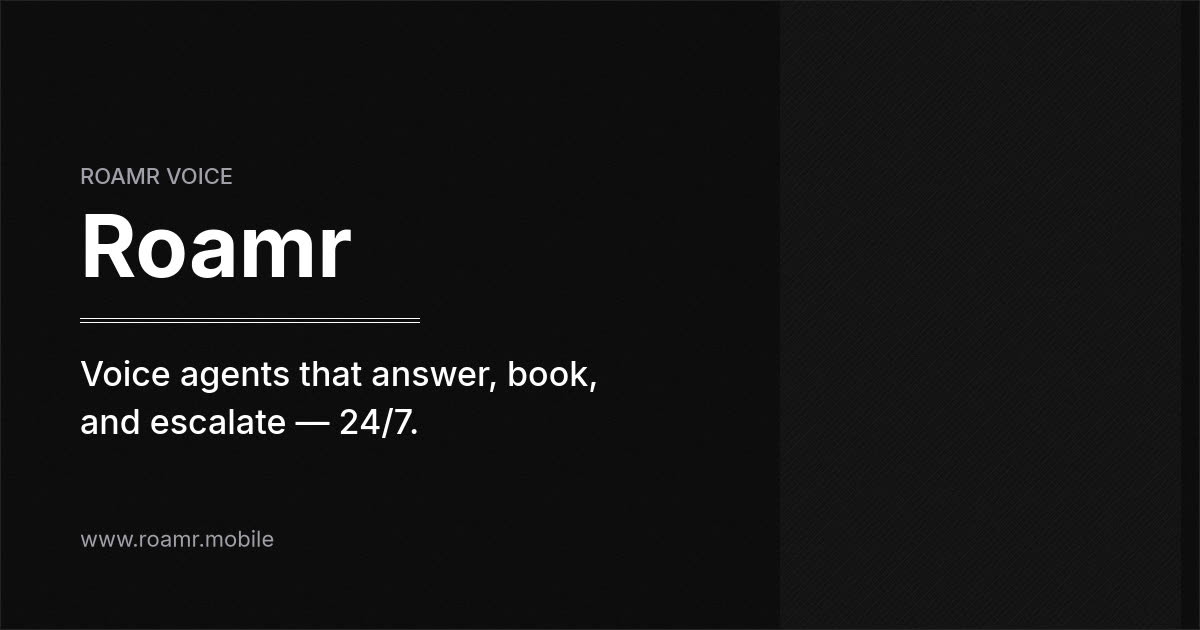
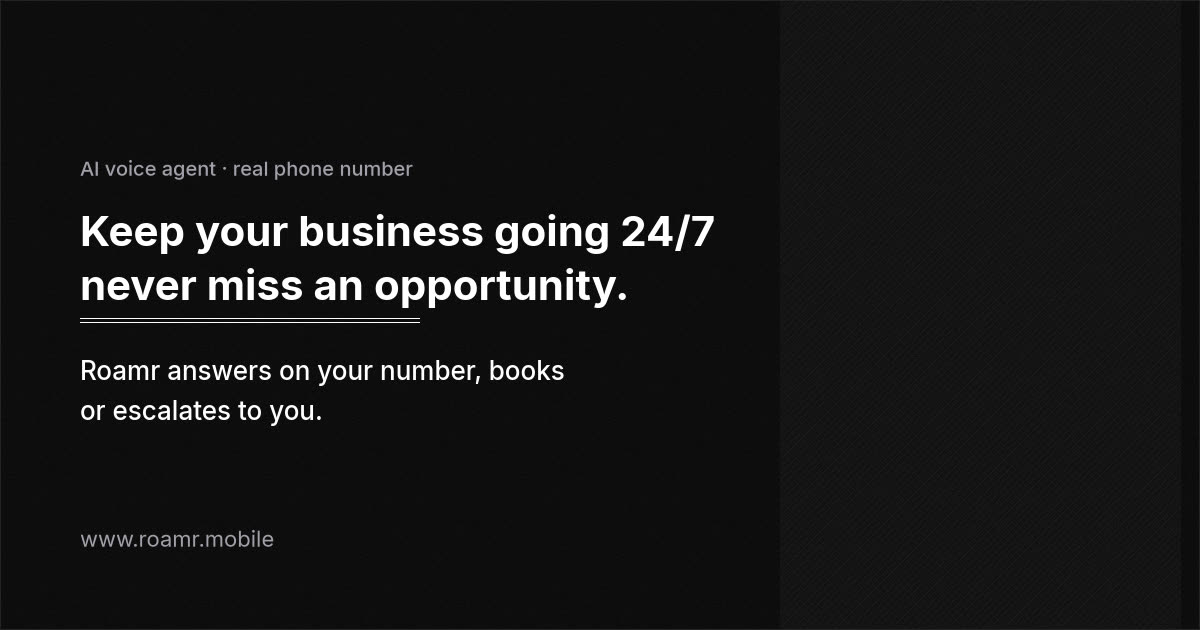
Add Quinn Soft Launch Soft CTA hero copy.
Eyebrow, H1, sub, Start free / Hear an agent, and proof strip are now the go-live marketing lines on the Preview branch.

Changed region(s): [[0.0617, 0.3317, 0.6167, 0.4825], [0.0617, 0.573, 0.4933, 0.6937], [0.0617, 0.2413, 0.3392, 0.3016]]

diff --git a/src/lib/i18n.ts b/src/lib/i18n.ts
@@ -15,10 +15,10 @@ export const EN = {
   start: "Start free",
   demo: "Hear an agent",
   console: "Open console",
-  kicker: "Always on",
-  heroTitle: "Voice agents that answer, book, and escalate — 24/7.",
+  kicker: "AI voice agent · real phone number",
+  heroTitle: "Keep your business going 24/7 — never miss an opportunity.",
   heroLead:
-    "Self-serve voice agents for personal assistants, sales and support. Twenty-five languages, your number, your knowledge — on, 24/7.",
+    "Roamr answers on your number, books or escalates to you, in the languages your customers speak.",
   pricingLead: "Monthly figures on this page. Annual is available at checkout — same plans, billed yearly.",
   listen: "Play sample",
   talk: "Talk to it",
@@ -77,10 +77,6 @@ const EXTRA: Partial<Record<LocaleCode, Partial<Record<MsgKey, string>>>> = {
     start: "Empezar gratis",
     demo: "Escuchar un agente",
     console: "Abrir consola",
-    kicker: "Siempre activo",
-    heroTitle: "Agentes de voz que contestan, reservan y escalan — 24/7.",
-    heroLead:
-      "Agentes de voz de autoservicio para asistente personal, ventas y soporte. Veinticinco idiomas, tu número, tu conocimiento — en marcha, 24/7.",
     listen: "Reproducir muestra",
     talk: "Hablarle",
     talking: "Escuchando…",
@@ -128,10 +124,6 @@ const EXTRA: Partial<Record<LocaleCode, Partial<Record<MsgKey, string>>>> = {
     start: "Essai gratuit",
     demo: "Écouter un agent",
     console: "Ouvrir la console",
-    kicker: "Toujours en ligne",
-    heroTitle: "Des agents vocaux qui répondent, réservent et escaladent — 24/7.",
-    heroLead:
-      "Agents vocaux en libre-service pour assistant, ventes et support. Vingt-cinq langues, votre numéro, votre base — actifs 24/7.",
     listen: "Écouter l’exemple",
     talk: "Lui parler",
     talking: "Écoute…",
@@ -171,10 +163,6 @@ const EXTRA: Partial<Record<LocaleCode, Partial<Record<MsgKey, string>>>> = {
     start: "Kostenlos starten",
     demo: "Agent hören",
     console: "Konsole öffnen",
-    kicker: "Immer erreichbar",
-    heroTitle: "Sprachagenten, die annehmen, buchen und eskalieren — 24/7.",
-    heroLead:
-      "Self-Service-Sprachagenten für Assistenz, Vertrieb und Support. 25 Sprachen, Ihre Nummer, Ihr Wissen — rund um die Uhr.",
     listen: "Beispiel abspielen",
     talk: "Sprechen",
     talking: "Hört zu…",
@@ -211,8 +199,6 @@ const EXTRA: Partial<Record<LocaleCode, Partial<Record<MsgKey, string>>>> = {
     start: "Começar grátis",
     demo: "Ouvir um agente",
     console: "Abrir consola",
-    kicker: "24/7",
-    heroTitle: "Agentes de voz que atendem o mundo.",
     listen: "Ouvir amostra",
     talk: "Falar",
     assistant: "Assistente pessoal",
@@ -243,8 +229,6 @@ const EXTRA: Partial<Record<LocaleCode, Partial<Record<MsgKey, string>>>> = {
     start: "Inizia gratis",
     demo: "Ascolta un agente",
     console: "Apri console",
-    kicker: "24/7",
-    heroTitle: "Agenti vocali che rispondono al mondo.",
     listen: "Ascolta esempio",
     talk: "Parla",
     assistant: "Assistente personale",
@@ -274,8 +258,6 @@ const EXTRA: Partial<Record<LocaleCode, Partial<Record<MsgKey, string>>>> = {
     signIn: "Inloggen",
     start: "Gratis starten",
     demo: "Beluister een agent",
-    kicker: "24/7",
-    heroTitle: "Voice-agents die de wereld beantwoorden.",
     listen: "Voorbeeld afspelen",
     talk: "Praten",
     assistant: "Persoonlijk assistent",
@@ -298,8 +280,6 @@ const EXTRA: Partial<Record<LocaleCode, Partial<Record<MsgKey, string>>>> = {
     signIn: "Zaloguj się",
     start: "Zacznij za darmo",
     demo: "Posłuchaj agenta",
-    kicker: "24/7",
-    heroTitle: "Agenci głosowi, którzy odbierają świat.",
     listen: "Odtwórz próbkę",
     talk: "Rozmawiaj",
     assistant: "Asystent osobisty",
@@ -321,8 +301,6 @@ const EXTRA: Partial<Record<LocaleCode, Partial<Record<MsgKey, string>>>> = {
     signIn: "Giriş",
     start: "Ücretsiz başla",
     demo: "Bir asistan dinle",
-    kicker: "24/7",
-    heroTitle: "Dünyayı karşılayan sesli asistanlar.",
     listen: "Örneği çal",
     talk: "Konuş",
     assistant: "Kişisel asistan",
@@ -344,8 +322,6 @@ const EXTRA: Partial<Record<LocaleCode, Partial<Record<MsgKey, string>>>> = {
     signIn: "تسجيل الدخول",
     start: "ابدأ مجاناً",
     demo: "استمع إلى وكيل",
-    kicker: "24/7",
-    heroTitle: "وكلاء صوتيون يجيبون العالم.",
     listen: "تشغيل العينة",
     talk: "تحدث إليه",
     assistant: "مساعد شخصي",
@@ -367,8 +343,6 @@ const EXTRA: Partial<Record<LocaleCode, Partial<Record<MsgKey, string>>>> = {
     signIn: "साइन इन",
     start: "मुफ़्त शुरू करें",
     demo: "एजेंट सुनें",
-    kicker: "24/7",
-    heroTitle: "वॉइस एजेंट जो दुनिया का जवाब देते हैं.",
     listen: "नमूना चलाएँ",
     talk: "बात करें",
     assistant: "व्यक्तिगत सहायक",
@@ -390,8 +364,6 @@ const EXTRA: Partial<Record<LocaleCode, Partial<Record<MsgKey, string>>>> = {
     signIn: "ログイン",
     start: "無料で始める",
     demo: "エージェントを聴く",
-    kicker: "24/7",
-    heroTitle: "世界に応えるボイスエージェント.",
     listen: "サンプル再生",
     talk: "話しかける",
     assistant: "パーソナルアシスタント",
@@ -413,8 +385,6 @@ const EXTRA: Partial<Record<LocaleCode, Partial<Record<MsgKey, string>>>> = {
     signIn: "로그인",
     start: "무료로 시작",
     demo: "에이전트 들어보기",
-    kicker: "24/7",
-    heroTitle: "세상에 응답하는 보이스 에이전트.",
     listen: "샘플 재생",
     talk: "대화하기",
     assistant: "개인 비서",
@@ -436,8 +406,6 @@ const EXTRA: Partial<Record<LocaleCode, Partial<Record<MsgKey, string>>>> = {
     signIn: "登录",
     start: "免费开始",
     demo: "试听座席",
-    kicker: "24/7",
-    heroTitle: "接得住全世界的语音座席.",
     listen: "播放示例",
     talk: "对话",
     assistant: "私人助理",
@@ -459,8 +427,6 @@ const EXTRA: Partial<Record<LocaleCode, Partial<Record<MsgKey, string>>>> = {
     signIn: "Войти",
     start: "Начать бесплатно",
     demo: "Послушать агента",
-    kicker: "24/7",
-    heroTitle: "Голосовые агенты, которые отвечают миру.",
     listen: "Пример",
     talk: "Говорить",
     assistant: "Личный ассистент",
@@ -482,8 +448,6 @@ const EXTRA: Partial<Record<LocaleCode, Partial<Record<MsgKey, string>>>> = {
     signIn: "Logga in",
     start: "Börja gratis",
     demo: "Lyssna på en agent",
-    kicker: "24/7",
-    heroTitle: "Röstagenter som svarar världen.",
     listen: "Spela exempel",
     talk: "Prata",
     assistant: "Personlig assistent",
@@ -505,8 +469,6 @@ const EXTRA: Partial<Record<LocaleCode, Partial<Record<MsgKey, string>>>> = {
     signIn: "Masuk",
     start: "Mulai gratis",
     demo: "Dengar agen",
-    kicker: "24/7",
-    heroTitle: "Agen suara yang menjawab dunia.",
     listen: "Putar sampel",
     talk: "Bicara",
     assistant: "Asisten pribadi",
@@ -528,8 +490,6 @@ const EXTRA: Partial<Record<LocaleCode, Partial<Record<MsgKey, string>>>> = {
     signIn: "เข้าสู่ระบบ",
     start: "เริ่มฟรี",
     demo: "ฟังเอเจนต์",
-    kicker: "24/7",
-    heroTitle: "เอเจนต์เสียงที่รับสายให้ทั้งโลก",
     listen: "เล่นตัวอย่าง",
     talk: "พูดคุย",
     assistant: "ผู้ช่วยส่วนตัว",
@@ -551,8 +511,6 @@ const EXTRA: Partial<Record<LocaleCode, Partial<Record<MsgKey, string>>>> = {
     signIn: "Đăng nhập",
     start: "Bắt đầu miễn phí",
     demo: "Nghe thử",
-    kicker: "24/7",
-    heroTitle: "Tác nhân giọng nói đáp lời thế giới.",
     listen: "Phát mẫu",
     talk: "Nói chuyện",
     assistant: "Trợ lý cá nhân",
@@ -574,8 +532,6 @@ const EXTRA: Partial<Record<LocaleCode, Partial<Record<MsgKey, string>>>> = {
     signIn: "Přihlásit se",
     start: "Začít zdarma",
     demo: "Poslechnout agenta",
-    kicker: "24/7",
-    heroTitle: "Hlasoví agenti, kteří berou svět.",
     listen: "Přehrát ukázku",
     talk: "Mluvit",
     assistant: "Osobní asistent",
@@ -597,8 +553,6 @@ const EXTRA: Partial<Record<LocaleCode, Partial<Record<MsgKey, string>>>> = {
     signIn: "Autentificare",
     start: "Începe gratuit",
     demo: "Ascultă un agent",
-    kicker: "24/7",
-    heroTitle: "Agenți vocali care răspund lumii.",
     listen: "Redă proba",
     talk: "Vorbește",
     assistant: "Asistent personal",
@@ -620,8 +574,6 @@ const EXTRA: Partial<Record<LocaleCode, Partial<Record<MsgKey, string>>>> = {
     signIn: "Увійти",
     start: "Почати безкоштовно",
     demo: "Послухати агента",
-    kicker: "24/7",
-    heroTitle: "Голосові агенти, що відповідають світу.",
     listen: "Відтворити зразок",
     talk: "Говорити",
     assistant: "Особистий асистент",
@@ -643,8 +595,6 @@ const EXTRA: Partial<Record<LocaleCode, Partial<Record<MsgKey, string>>>> = {
     signIn: "Σύνδεση",
     start: "Ξεκινήστε δωρεάν",
     demo: "Ακούστε έναν πράκτορα",
-    kicker: "24/7",
-    heroTitle: "Φωνητικοί πράκτορες που απαντούν στον κόσμο.",
     listen: "Αναπαραγωγή δείγματος",
     talk: "Μιλήστε",
     assistant: "Προσωπικός βοηθός",
@@ -666,8 +616,6 @@ const EXTRA: Partial<Record<LocaleCode, Partial<Record<MsgKey, string>>>> = {
     signIn: "כניסה",
     start: "התחילו בחינם",
     demo: "האזינו לסוכן",
-    kicker: "24/7",
-    heroTitle: "סוכני קול שעונים לעולם.",
     listen: "נגן דוגמה",
     talk: "דברו",
     assistant: "עוזר אישי",
@@ -689,8 +637,6 @@ const EXTRA: Partial<Record<LocaleCode, Partial<Record<MsgKey, string>>>> = {
     signIn: "সাইন ইন",
     start: "বিনামূল্যে শুরু",
     demo: "এজেন্ট শুনুন",
-    kicker: "24/7",
-    heroTitle: "ভয়েস এজেন্ট, যারা বিশ্বের উত্তর দেয়.",
     listen: "নমুনা চালান",
     talk: "কথা বলুন",
     assistant: "ব্যক্তিগত সহকারী",

diff --git a/src/routes/index.tsx b/src/routes/index.tsx
@@ -4,7 +4,7 @@ import { SiteShell } from "@/components/site/shell";
 import { VoiceDemo } from "@/components/voice/demo";
 import { Button } from "@/components/ui/button";
 import { useI18n } from "@/lib/locale";
-import { GUARDRAILS, INTEGRATIONS, LOCALES, PLANS, USE_CASES, VOICES } from "@/lib/product";
+import { GUARDRAILS, INTEGRATIONS, LOCALES, PLANS, USE_CASES } from "@/lib/product";
 import { formatMoney } from "@/lib/utils";
 
 export const Route = createFileRoute("/")({
@@ -18,7 +18,7 @@ function Home() {
       <section className="border-b border-border bg-bg">
         <div className="mx-auto grid max-w-6xl gap-10 px-4 py-14 sm:px-6 sm:py-20 lg:grid-cols-[1.05fr_0.95fr] lg:items-center">
           <div>
-            <p className="text-xs font-medium uppercase tracking-[0.18em] text-subtle">{t("kicker")}</p>
+            <p className="text-xs font-medium tracking-[0.04em] text-subtle">{t("kicker")}</p>
             <h1 className="rule-double mt-4 font-display text-4xl tracking-tight sm:text-6xl">{t("heroTitle")}</h1>
             <p className="mt-5 max-w-xl text-base text-muted sm:text-lg">{t("heroLead")}</p>
             <div className="mt-8 flex flex-col gap-3 sm:flex-row">
@@ -29,20 +29,19 @@ function Home() {
                 <a href="#demo">{t("demo")}</a>
               </Button>
             </div>
-            <dl className="mt-10 grid grid-cols-3 gap-4 text-sm">
-              <div>
-                <dt className="text-subtle">Languages</dt>
-                <dd className="font-display text-2xl">25</dd>
-              </div>
-              <div>
-                <dt className="text-subtle">Voices</dt>
-                <dd className="font-display text-2xl">{VOICES.length}</dd>
-              </div>
-              <div>
-                <dt className="text-subtle">Coverage</dt>
-                <dd className="font-display text-2xl">24/7</dd>
-              </div>
-            </dl>
+            <p className="mt-10 max-w-xl text-[11px] font-medium tracking-[0.04em] text-muted">
+              Real phone number — not a chat widget
+              <span aria-hidden="true" className="text-zinc-400">
+                {" "}
+                ·{" "}
+              </span>
+              Multilingual, 24/7
+              <span aria-hidden="true" className="text-zinc-400">
+                {" "}
+                ·{" "}
+              </span>
+              Answer · book · escalate
+            </p>
           </div>
           <div id="demo" className="relative">
             <div className="hero-hatch absolute -inset-3 -z-10 sm:-inset-5" aria-hidden="true" />
